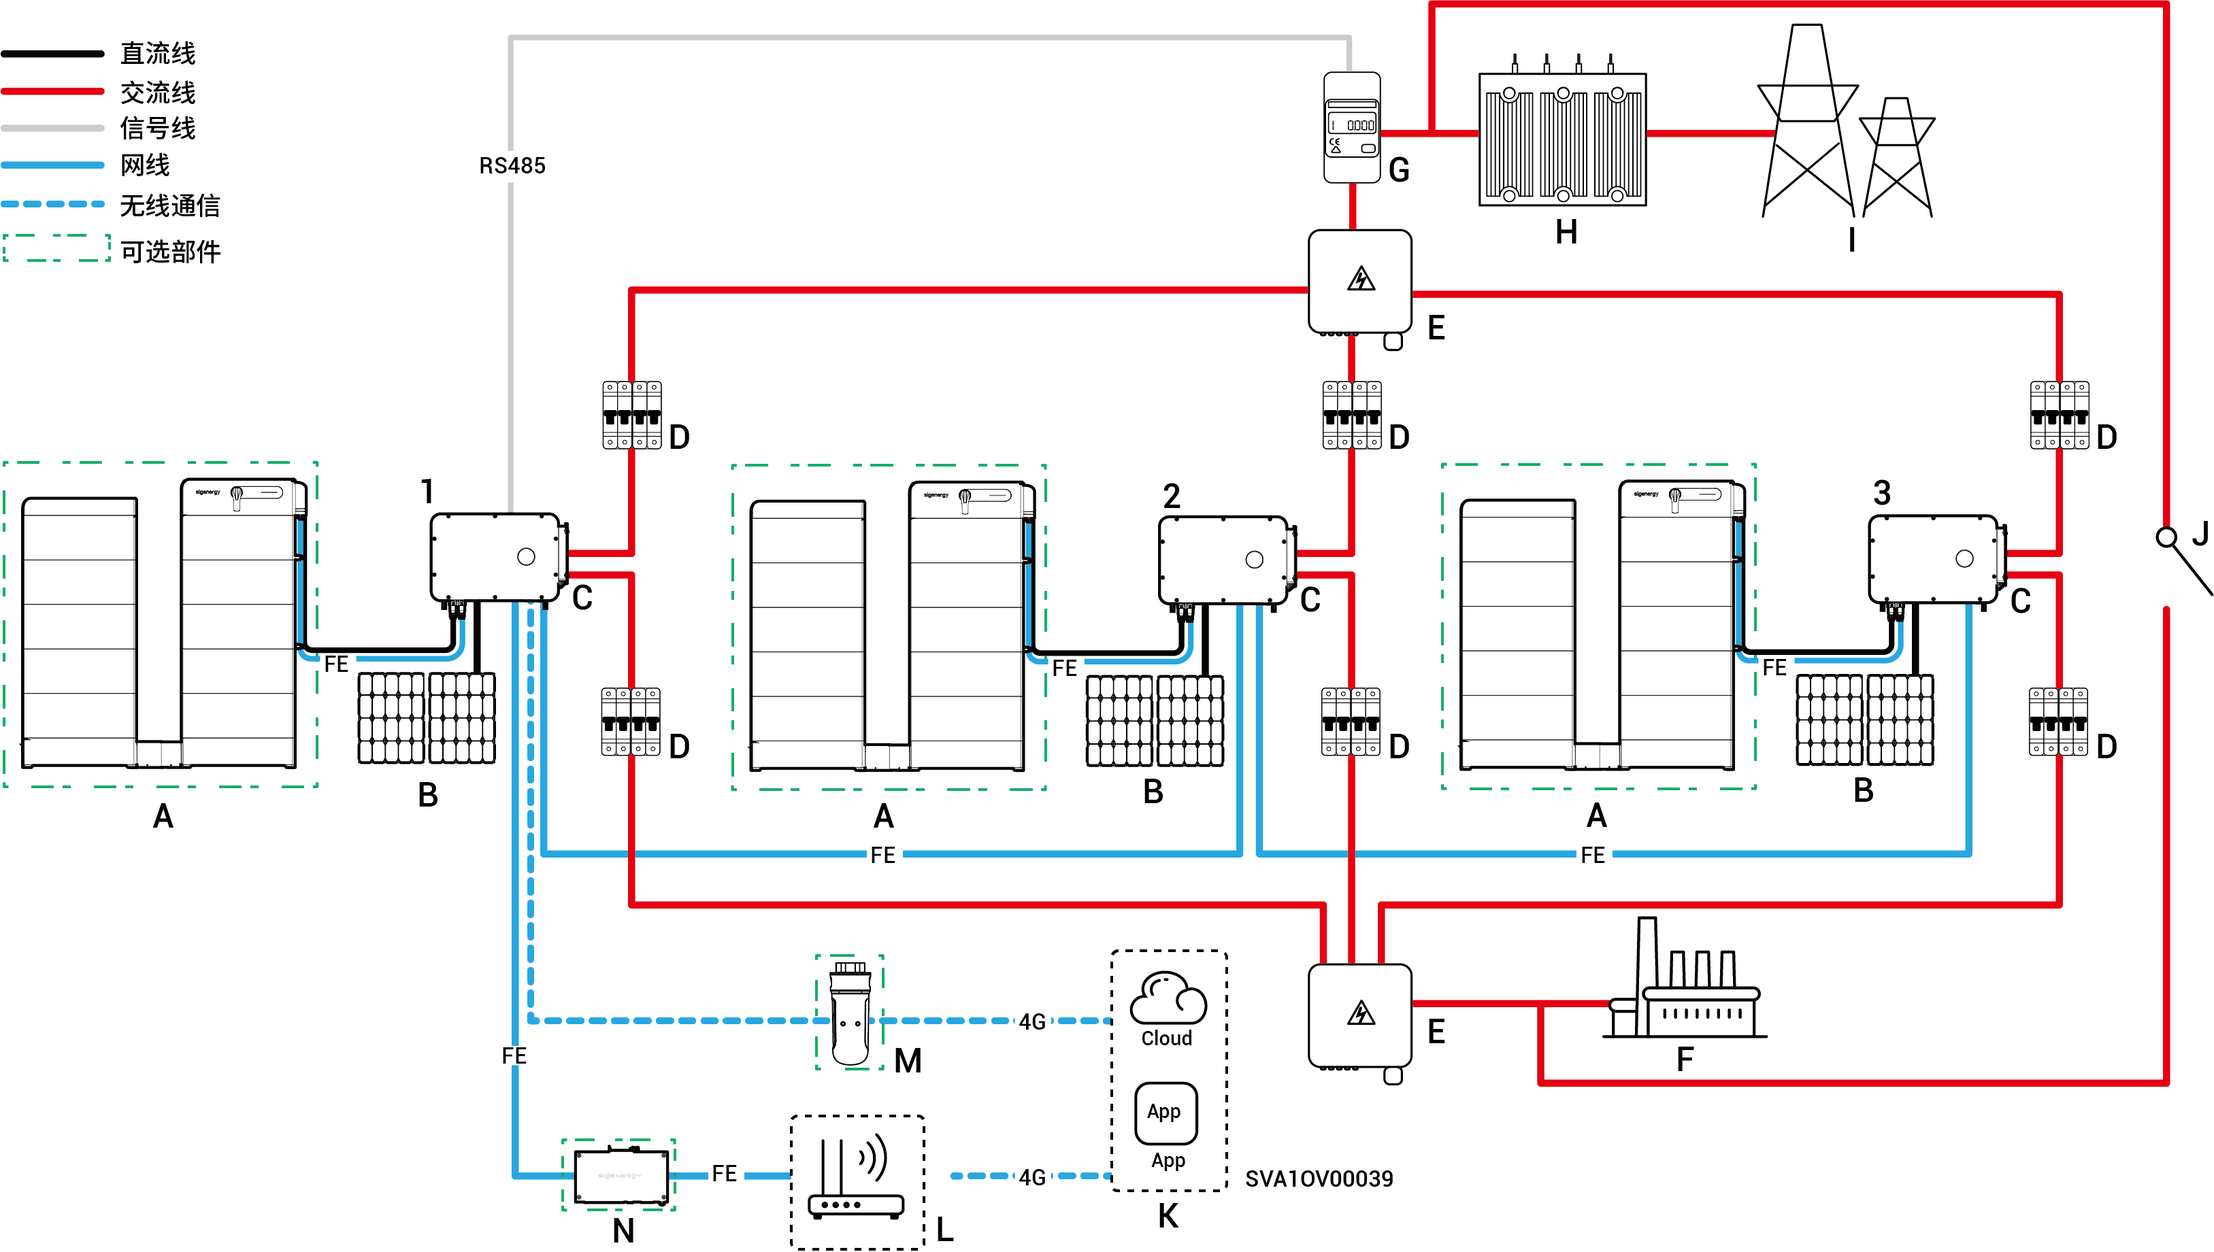
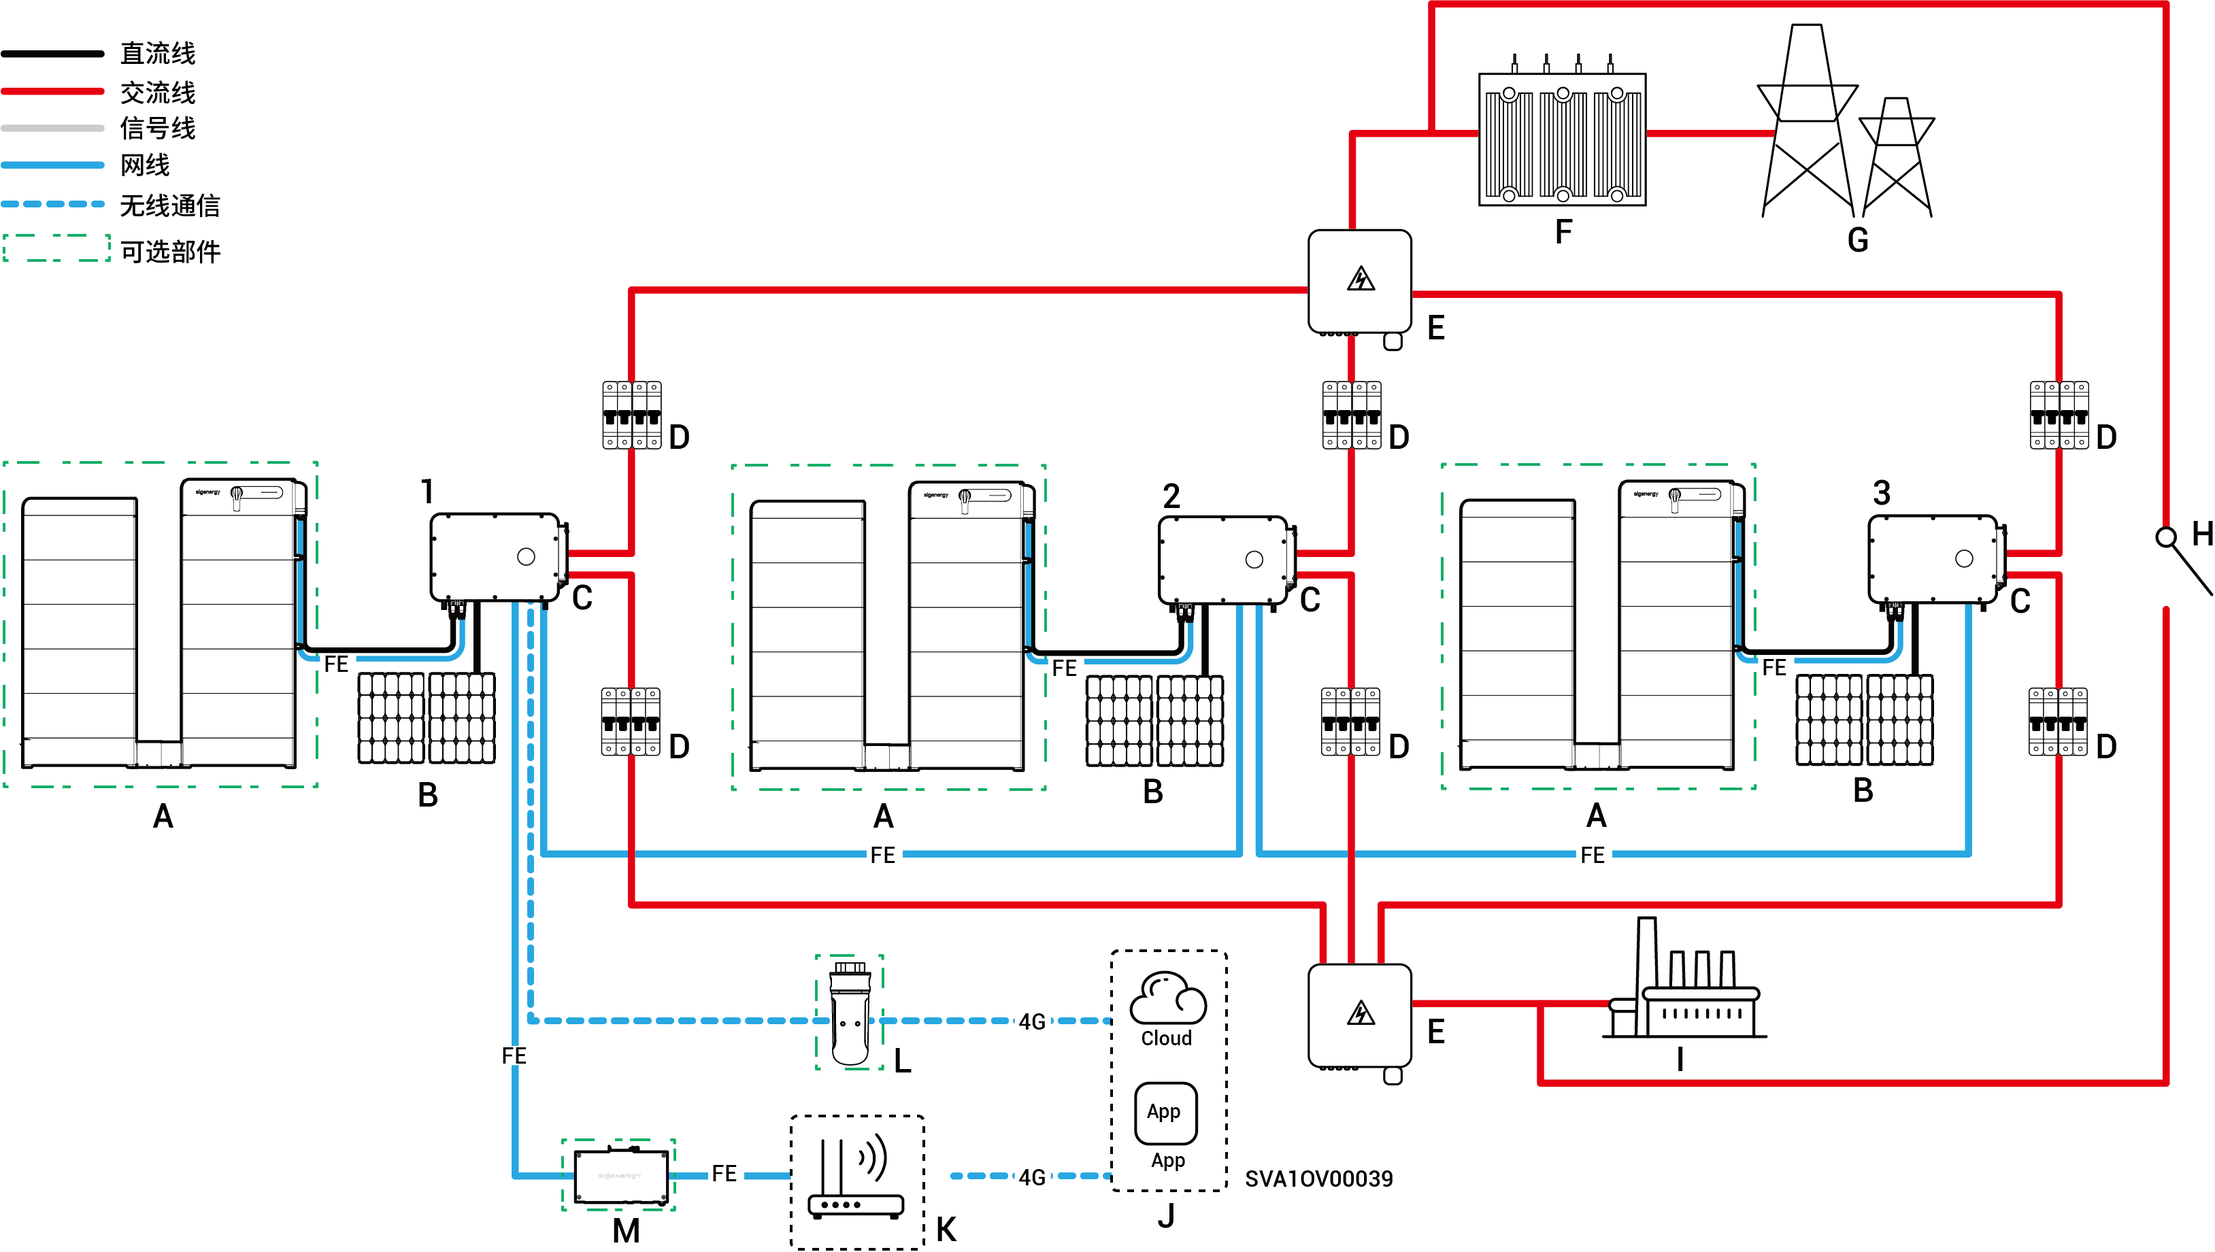
GITBOOK-28: No subject

diff --git a/xi-tong-wei-hu/li-xing-wei-hu.md b/xi-tong-wei-hu/li-xing-wei-hu.md
@@ -2,9 +2,4 @@
 
 为了保障设备能够长期良好运行，建议按照本章节的描述对其进行例行维护。
 
-<table><thead><tr><th width="131.77783203125">检查内容</th><th width="312">检查方法</th><th width="99" align="center">是否关机</th><th>维护周期</th></tr></thead><tbody><tr><td>系统清洁</td><td>定期检查设备有无遮挡及灰尘脏污，若有，请清理。清理时禁止使用可能导致触电或绝缘破坏的工具，如钢丝刷、湿毛巾等。</td><td align="center">是</td><td>3个月1次。</td></tr><tr><td>系统运行状态</td><td><ul><li>观察设备外观是否有损坏或者变形。</li><li>听设备在运行过程中是否有异常声音。</li><li>在设备运行时，检查设备各项参数是否设置正确。</li></ul></td><td align="center">否</td><td>6个月1次。</td></tr><tr><td>电气连接</td><td><ul><li>检查线缆端子连接是否松脱。</li><li>检查线缆表面是否有损坏。</li><li>检查线缆与金属接触的表皮是否有划痕。</li><li>检查未使用的走线孔是否处于密封状态。</li></ul></td><td align="center">是</td><td>开局后6个月检查1次，之后间每隔6~12月1次。</td></tr><tr><td>工具保养</td><td>吊装工具保养：通过注油口注入润滑脂，海边或其他恶劣场景须缩短注油周期。注油口位置参见图1。</td><td align="center">是</td><td>1个月1次</td></tr><tr><td>接地可靠性</td><td>检查接地线缆是否完整、可靠连接。</td><td align="center">否</td><td>开局后6个月检查1次，之后间每隔6~12月1次。</td></tr></tbody></table>
-
-图1
-
-<figure><img src="../.gitbook/assets/img_v3_02tn_69c8a358-5845-48fa-a924-458e8d67f26g.png" alt=""><figcaption></figcaption></figure>
-
+<table><thead><tr><th width="109">检查内容</th><th width="312">检查方法</th><th width="99" align="center">是否关机</th><th>维护周期</th></tr></thead><tbody><tr><td>系统清洁</td><td>定期检查设备有无遮挡及灰尘脏污，若有，请清理。清理时禁止使用可能导致触电或绝缘破坏的工具，如钢丝刷、湿毛巾等。</td><td align="center">是</td><td>3个月1次。</td></tr><tr><td>系统运行状态</td><td><ul><li>观察设备外观是否有损坏或者变形。</li><li>听设备在运行过程中是否有异常声音。</li><li>在设备运行时，检查设备各项参数是否设置正确。</li></ul></td><td align="center">否</td><td>6个月1次。</td></tr><tr><td>电气连接</td><td><ul><li>检查线缆端子连接是否松脱。</li><li>检查线缆表面是否有损坏。</li><li>检查线缆与金属接触的表皮是否有划痕。</li><li>检查未使用的走线孔是否处于密封状态。</li></ul></td><td align="center">是</td><td>开局后6个月检查1次，之后间每隔6~12月1次。</td></tr><tr><td>接地可靠性</td><td>检查接地线缆是否完整、可靠连接。</td><td align="center">否</td><td>开局后6个月检查1次，之后间每隔6~12月1次。</td></tr></tbody></table>

diff --git a/chan-pin-jie-shao/zu-wang-jie-shao.md b/chan-pin-jie-shao/zu-wang-jie-shao.md
@@ -10,7 +10,7 @@
 
 ## 非备电组网图（逆变器＜100台）
 
-<figure><img src="../.gitbook/assets/SVA1OV00028-zh (3) (3).png" alt=""><figcaption></figcaption></figure>
+<figure><img src="../.gitbook/assets/SVA1OV00028-zh (3).png" alt=""><figcaption></figcaption></figure>
 
 <table data-header-hidden><thead><tr><th width="147.4444580078125" valign="top"></th><th width="116.77783203125" valign="top"></th><th width="110.111083984375" valign="top"></th><th width="203.77783203125" valign="top"></th><th valign="top"></th></tr></thead><tbody><tr><td valign="top">A．电池</td><td valign="top">B．光伏板</td><td valign="top">C．逆变器</td><td valign="top">D．交流开关（取决于逆变器功率）</td><td valign="top">E．功率传感器</td></tr><tr><td valign="top">F．箱式变电站</td><td valign="top">G．电网</td><td valign="top">H．思格云</td><td valign="top">I．路由器</td><td valign="top">J．思格通信棒</td></tr><tr><td valign="top">K．思格通信网桥</td><td valign="top"></td><td valign="top"></td><td valign="top"></td><td valign="top"></td></tr></tbody></table>
 
@@ -37,7 +37,7 @@
 
 ## 备电组网图（HYB机型配置内置思格能源备电柜，逆变器≤3台）
 
-<figure><img src="../.gitbook/assets/SVA1OV00039-ZH (3).png" alt=""><figcaption></figcaption></figure>
+<figure><img src="../.gitbook/assets/SVA1OV00039-ZH (1).png" alt=""><figcaption></figcaption></figure>
 
 <table data-header-hidden><thead><tr><th valign="middle"></th><th valign="middle"></th><th width="159" valign="middle"></th><th width="159.2222900390625" valign="middle"></th><th valign="middle"></th></tr></thead><tbody><tr><td valign="middle">A．电池</td><td valign="middle">B．光伏板</td><td valign="middle">C．逆变器</td><td valign="middle">D．交流开关（取决于逆变器功率）</td><td valign="middle">E．汇流柜</td></tr><tr><td valign="middle">F．箱式变电站</td><td valign="middle">G．电网</td><td valign="middle">H．手动控制开关</td><td valign="middle">I．备电负载</td><td valign="middle">J．思格云</td></tr><tr><td valign="middle">K．路由器</td><td valign="middle">L．思格通信棒</td><td valign="middle">M．思格通信网桥</td><td valign="middle"></td><td valign="middle"></td></tr></tbody></table>
 

diff --git a/xi-tong-wei-hu/xi-tong-xia-dian-shang-dian.md b/xi-tong-wei-hu/xi-tong-xia-dian-shang-dian.md
@@ -1,6 +1,6 @@
 # 系统下电/上电
 
-{% include "../.gitbook/includes/danger.md" %}
+{% include "https://app.gitbook.com/s/LphsQhUSDX9PgTtjDfX5/~/reusable/IWUumM4nUt6fdNrXK7A3/" %}
 
 <mark style="color:red;">高电压、危险：</mark>
 
@@ -8,7 +8,7 @@
 
 ## 系统下电
 
-1. 通过App下发关机指令。
+1. 通过App，关闭设备。
 
 ### **户主账号**
 
@@ -19,24 +19,15 @@
 <figure><img src="../.gitbook/assets/MSA1CM00078-系统下电zh (1).png" alt=""><figcaption></figcaption></figure>
 
 2. 断开备电配电单元内与设备连接的开关。
-3. 用钳流表直流电流档测量逆变器每一路输入组串的直流电流。
+3. 将设备上的“DC SWITCH”旋转至“OFF”状态。
+4. 设备LED指示灯均熄灭后，请参考设备上延时标签，等待对应的时间后，再进行操作。
 
-* 若电流≤0.01A，请执行下一步操作。
-* 若电流＞0.01A，需待光伏组串电流降低至0.01A以下时，执行下一步操作。
-
-4. 打开维护腔门，用万用表测量交流端子排对地电压，确保逆变器交流侧已断电。
-5. 将逆变器上的所有“DC SWITCH”旋转至“OFF”状态。
-6. 长按BC/BC-BST的ON/OFF按钮10s。
-7. 逆变器和BC/BC-BST的LED指示灯均熄灭后，请参考设备上延时标签，等待对应的时间后，将BC/BC-BST的隔离开关置于OFF位置。
-
-{% include "../.gitbook/includes/warning.md" %}
+{% include "https://app.gitbook.com/s/LphsQhUSDX9PgTtjDfX5/~/reusable/NCKewnAAdtzuFKg1KiZ5/" %}
 
 <mark style="color:orange;">下电后，设备存在残余电流与余热。下电后立马操作，可能会造成触电与灼伤。</mark>
 
 ## 系统上电
 
-1. 将BC/BC-BST的隔离开关置于ON位置。
-2. 长按BC/BC-BST的ON/OFF按钮10s。
-3. 闭合备电配电单元内与设备连接的开关。
-4. 将逆变器上的所有“DC SWITCH”旋转至“ON”状态。
-5. 观察逆变器和BC/BC-BST的LED指示灯状态，通过App下发开机指令，（操作步骤参见“系统下电”的步骤1描述）
+1. 将设备上的“DC SWITCH”旋转至“ON”状态。
+2. 闭合备电配电单元内与设备连接的开关。
+3. 通过App，设备开机（操作步骤参见“系统下电”的步骤1描述）。

diff --git a/chan-pin-jie-shao/chan-pin-wai-guan/sigen-pv-50110m1hya-ni-bian-qi.md b/chan-pin-jie-shao/chan-pin-wai-guan/sigen-pv-50110m1hya-ni-bian-qi.md
@@ -6,6 +6,6 @@
 
 ### 端口介绍
 
-<figure><img src="../../.gitbook/assets/SSA1OV00017-HYA (1).png" alt="" width="563"><figcaption></figcaption></figure>
+<figure><img src="../../.gitbook/assets/SSA1OV00017-HYA.png" alt="" width="563"><figcaption></figcaption></figure>
 
 <table><thead><tr><th width="59.4444580078125" align="center" valign="middle">序号</th><th valign="top">名称</th><th valign="top">丝印</th></tr></thead><tbody><tr><td align="center" valign="middle">1</td><td valign="top">SigenStack网线接口</td><td valign="top">RJ45 3</td></tr><tr><td align="center" valign="middle">2</td><td valign="top">SigenStack直流线缆接口</td><td valign="top">BAT+/BAT-</td></tr><tr><td align="center" valign="middle">3</td><td valign="top">直流开关1</td><td valign="top">DC SWITCH 1</td></tr><tr><td align="center" valign="middle">4</td><td valign="top">直流输入端子组1（由DC SWITCH 1控制）</td><td valign="top">PV1 ~ PV8</td></tr><tr><td align="center" valign="middle">5</td><td valign="top">直流输入端子组2（由DC SWITCH 2控制）</td><td valign="top">PV9 ~ PV16</td></tr><tr><td align="center" valign="middle">6</td><td valign="top">直流开关2</td><td valign="top">DC SWITCH 2</td></tr><tr><td align="center" valign="middle">7</td><td valign="top">Sigen CommMod接口</td><td valign="top">4G</td></tr><tr><td align="center" valign="middle">8</td><td valign="top">天线接口</td><td valign="top">ANT</td></tr><tr><td align="center" valign="middle">9</td><td valign="top">网线接口</td><td valign="top">RJ45 1</td></tr><tr><td align="center" valign="middle">10</td><td valign="top">多芯线走线孔</td><td valign="top">-</td></tr><tr><td align="center" valign="middle">11</td><td valign="top">单芯线走线孔</td><td valign="top">-</td></tr><tr><td align="center" valign="middle">12</td><td valign="top">通信接口</td><td valign="top">COM</td></tr><tr><td align="center" valign="middle">13</td><td valign="top">网线接口</td><td valign="top">RJ45 2</td></tr><tr><td align="center" valign="middle">14</td><td valign="top">散热风扇</td><td valign="top">-</td></tr></tbody></table>

diff --git a/qian-yan.md b/qian-yan.md
@@ -15,4 +15,4 @@
 
 文档中可能用到以下图标以提示安全注意事项或关键信息。在安装与操作之前，请熟悉并掌握图标及对应定义。
 
-<table><thead><tr><th width="141.90911865234375">图标</th><th>定义</th></tr></thead><tbody><tr><td><img src=".gitbook/assets/danger.png" alt=""></td><td>表示危险。若未遵守，将导致死亡或严重的人身伤害。</td></tr><tr><td><img src=".gitbook/assets/warning.png" alt=""></td><td>表示警告。若未遵守，将导致严重的人身伤害或财产损失。</td></tr><tr><td><img src=".gitbook/assets/caution.png" alt=""></td><td>表示注意。若未遵守，将导致财产损失。</td></tr><tr><td><img src=".gitbook/assets/tips.png" alt=""></td><td>提示重点或关键信息，补充操作小窍门等。</td></tr></tbody></table>
+<table><thead><tr><th width="154.90911865234375">图标</th><th>定义</th></tr></thead><tbody><tr><td><img src=".gitbook/assets/danger.png" alt=""></td><td>表示危险。若未遵守，将导致死亡或严重的人身伤害。</td></tr><tr><td><img src=".gitbook/assets/warning.png" alt=""></td><td>表示警告。若未遵守，将导致严重的人身伤害或财产损失。</td></tr><tr><td><img src=".gitbook/assets/caution.png" alt=""></td><td>表示注意。若未遵守，将导致财产损失。</td></tr><tr><td><img src=".gitbook/assets/tips.png" alt=""></td><td>提示重点或关键信息，补充操作小窍门等。</td></tr></tbody></table>

diff --git a/xiu-ding-li-shi.md b/xiu-ding-li-shi.md
@@ -1,4 +1,3 @@
 # 修订历史
 
-<table><thead><tr><th width="119.00006103515625" align="center">版本</th><th width="177.9090576171875">时间</th><th>说明</th></tr></thead><tbody><tr><td align="center">03</td><td>2026.01.07</td><td>更新 <a href="xi-tong-yun-xing/zhi-shi-deng-zhuang-tai.md">指示灯状态</a><br>更新 <a href="xi-tong-wei-hu/li-xing-wei-hu.md">例行维护</a><br>更新 <a href="xi-tong-wei-hu/xi-tong-xia-dian-shang-dian.md">系统下电/上电</a><br>更新 组网介绍</td></tr><tr><td align="center">02</td><td>2025.11.21</td><td>更新 <a href="cun-chu-yao-qiu.md">存储要求</a><br>更新 <a href="chan-pin-jie-shao/">产品介绍</a></td></tr><tr><td align="center">01</td><td>2025.06.25</td><td>第一次正式发布版本</td></tr></tbody></table>
-
+<table><thead><tr><th width="119.00006103515625" align="center">版本</th><th width="177.9090576171875">时间</th><th>说明</th></tr></thead><tbody><tr><td align="center">02</td><td>2025.11.21</td><td>更新 <a href="cun-chu-yao-qiu.md">存储要求</a><br>更新 <a href="chan-pin-jie-shao/">产品介绍</a></td></tr><tr><td align="center">01</td><td>2025.06.25</td><td>第一次正式发布版本</td></tr></tbody></table>

diff --git a/ban-quan-sheng-ming.md b/ban-quan-sheng-ming.md
@@ -1,6 +1,6 @@
 # 版权声明
 
-版权所有©思格新能源(上海)股份有限公司2026。保留一切权利
+版权所有©思格新能源(上海)股份有限公司2025。保留一切权利
 
 本文档中所提供的信息仅供参考。文档以合法渠道获得这些信息，尽可能保证可靠、准确和完整，但并不保证文档所述信息的准确性和完整性。本文档不能作为道义的、责任的和法律的依据或者凭证，思格新能源(上海)股份有限公司将随时补充、更正和修订有关信息，但不保证及时发布。对于本文档所提供信息、所导致的任何直接的或者间接的影响或后果不承担任何责任。本文档版权仅为思格新能源(上海)股份有限公司所有，未经书面许可，任何机构和个人不得以任何形式翻版、复制和发布。思格新能源(上海)股份有限公司对于本免责申明条款具有修改权和最终解释权。
 

diff --git a/chan-pin-jie-shao/chan-pin-wai-guan/si-ge-dian-chi.md b/chan-pin-jie-shao/chan-pin-wai-guan/si-ge-dian-chi.md
@@ -6,6 +6,6 @@
 
 ### 端口介绍
 
-<figure><img src="../../.gitbook/assets/STA1OV00004-1 (1) (1).png" alt="" width="563"><figcaption></figcaption></figure>
+<figure><img src="../../.gitbook/assets/STA1OV00004-1 (1).png" alt="" width="563"><figcaption></figcaption></figure>
 
 <table><thead><tr><th width="61.6666259765625" align="center" valign="middle">序号</th><th width="257.5556640625" valign="top">名称</th><th valign="top">丝印</th></tr></thead><tbody><tr><td align="center" valign="middle">1</td><td valign="top">隔离开关</td><td valign="top">-</td></tr><tr><td align="center" valign="middle">2</td><td valign="top">通信端口</td><td valign="top">COM</td></tr><tr><td align="center" valign="middle">3</td><td valign="top">功率端口</td><td valign="top">BAT+/BAT-</td></tr><tr><td align="center" valign="middle">4</td><td valign="top">开关按钮</td><td valign="top">ON/OFF</td></tr></tbody></table>

diff --git a/xi-tong-yun-xing/zhi-shi-deng-zhuang-tai.md b/xi-tong-yun-xing/zhi-shi-deng-zhuang-tai.md
@@ -10,19 +10,13 @@
 
 ![](../.gitbook/assets/SSA1OV00015-zh.png)
 
-<figure><img src="../.gitbook/assets/逆变器黄色灯语-zh.png" alt=""><figcaption></figcaption></figure>
+<figure><img src="../.gitbook/assets/SHA1OV00012-zh黄 (1).png" alt=""><figcaption></figcaption></figure>
 
 ### 灯语 2
 
 ![](../.gitbook/assets/SSA1OV00015-zh.png)
 
-<figure><img src="../.gitbook/assets/逆变器蓝色灯语-zh.png" alt=""><figcaption></figcaption></figure>
-
-## 电池指示灯
-
-<figure><img src="../.gitbook/assets/STA1OV00007-zh.png" alt="" width="355"><figcaption></figcaption></figure>
-
-<figure><img src="../.gitbook/assets/电池灯语-zh (2).png" alt=""><figcaption></figcaption></figure>
+<figure><img src="../.gitbook/assets/SHA1OV00012-zh蓝.png" alt=""><figcaption></figcaption></figure>
 
 ## **思格通信棒指示灯**
 

diff --git a/xi-tong-yun-xing/gong-zuo-mo-shi.md b/xi-tong-yun-xing/gong-zuo-mo-shi.md
@@ -26,7 +26,7 @@
 
 \*进入该时段时，会记录电池电量，当光伏功率大于负载时，剩余光伏功率给电池充电，当光伏功率小于负载时，电池可以放电给负载，但是电池电量下降并且接近进入该时段时的电池电量值时，电池会结束放电。
 
-<figure><img src="../.gitbook/assets/SSA1OV00012-zh (1) (1).jpg" alt=""><figcaption></figcaption></figure>
+<figure><img src="../.gitbook/assets/SSA1OV00012-zh (1).jpg" alt=""><figcaption></figcaption></figure>
 
 ## **全部发送给电网模式**
 

diff --git a/chan-pin-jie-shao/chan-pin-wai-guan/sigen-pv-50125m1-ni-bian-qi.md b/chan-pin-jie-shao/chan-pin-wai-guan/sigen-pv-50125m1-ni-bian-qi.md
@@ -2,7 +2,7 @@
 
 ### 尺寸图
 
-<figure><img src="../../.gitbook/assets/SSA1OV00021-zh (1) (1).png" alt=""><figcaption></figcaption></figure>
+<figure><img src="../../.gitbook/assets/SSA1OV00021-zh (1).png" alt=""><figcaption></figcaption></figure>
 
 ### 端口介绍
 
